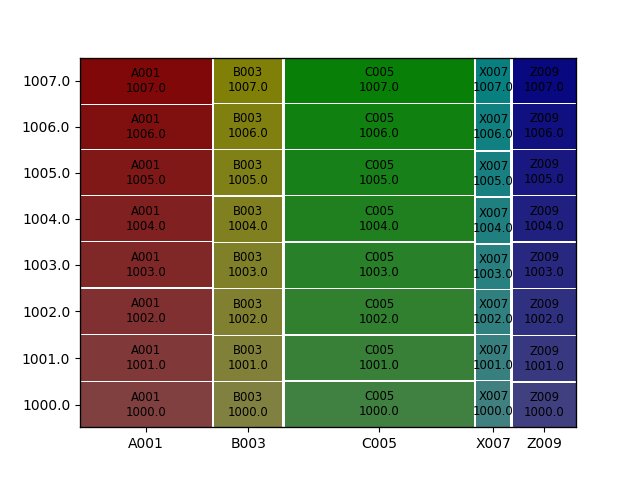
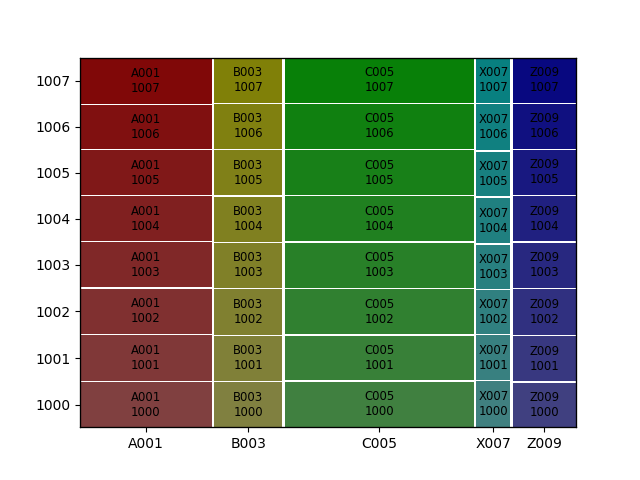
Change some variables to categorical/Int64, dropped unused Weekend variables and added plots for opportunity3.

diff --git a/prepare_data.py b/prepare_data.py
@@ -3,19 +3,32 @@ import os
 import pandas
 
 pandas.set_option('display.max_columns', 10)
-pandas.set_option('display.width', 300)
+pandas.set_option('display.width', 150)
 
 
 def read_data():
     """Read in dataset and return a dataframe with:
        - index: row_id
        - columns: original and derived features. Derived features include:
-         - Result_Type_Bin: binary feature (PASS or DEFECT)
-         - Week_Day: categorical (day of the week)
-         - Is_Weekend: "binary (1 for weekend and 0 for weekday)."""
+         - Result_Type_Bin: categorical feature (PASS or DEFECT)."""
 
     # data = pandas.read_csv(os.path.join('data', 'WIDS_Project_Generated_Data_10K.csv'), index_col=0)
-    data = pandas.read_csv(os.path.join('data', 'WIDS_Dataset_Full_Aug18_Jan19_Adjusted.csv.gz'), index_col=0)
+    data = pandas.read_csv(os.path.join('data', 'WIDS_Dataset_Full_Aug18_Jan19_Adjusted.csv.gz'),
+                           index_col=0,
+                           dtype={
+                               'Zone1Position': 'category',
+                               'Zone2Position': 'category',
+                               'Zone3Position': 'category',
+                               'SKU': 'category',
+                               'Block_Num': 'category',
+                               'Block_Position': 'category',
+                               'Result_Type': 'category',
+                               'Passed_QC_Count': 'Int64',
+                               'Defect_1_Count': 'Int64',
+                               'Defect_2_Count': 'Int64',
+                               'Defect_3_Count': 'Int64',
+                               'Defect_4_Count': 'Int64',
+                           })
     data.index.name = 'row_id'
 
     # Add binary Result_Type_Bin variable
@@ -24,13 +37,7 @@ def read_data():
         'Defect_1': 'DEFECT',
         'Defect_2': 'DEFECT',
         'Defect_3': 'DEFECT',
-        'Defect_4': 'DEFECT'})
-
-    # Add annotation by day of the week/weekend to explore whether there is an associations with defects appearance
-    data['Week_Day'] = pandas.Categorical(
-        pandas.to_datetime(data.Date).dt.day_name(),
-        ['Monday', 'Tuesday', 'Wednesday', 'Thursday', 'Friday', 'Saturday', 'Sunday'])
-    data['Is_Weekend'] = (pandas.to_datetime(data.Date).dt.dayofweek // 5 == 1).astype(float)
+        'Defect_4': 'DEFECT'}).astype('category')
 
     return data
 
@@ -50,14 +57,14 @@ def impute_data_zone1(data):
     data.loc[data.Zone1_Area.isin(['Bottom Right', 'Bottom Left']), 'Zone1_Row_Num'] = 2
 
     # Input values in 'Zone1Position' based on row and col position
-    data.loc[(data.Zone1_Row_Num == 1) & (data.Zone1_Col_Num == 1), 'Zone1Position'] = 1
-    data.loc[(data.Zone1_Row_Num == 1) & (data.Zone1_Col_Num == 2), 'Zone1Position'] = 2
-    data.loc[(data.Zone1_Row_Num == 1) & (data.Zone1_Col_Num == 3), 'Zone1Position'] = 3
-    data.loc[(data.Zone1_Row_Num == 1) & (data.Zone1_Col_Num == 4), 'Zone1Position'] = 4
-    data.loc[(data.Zone1_Row_Num == 2) & (data.Zone1_Col_Num == 1), 'Zone1Position'] = 5
-    data.loc[(data.Zone1_Row_Num == 2) & (data.Zone1_Col_Num == 2), 'Zone1Position'] = 6
-    data.loc[(data.Zone1_Row_Num == 2) & (data.Zone1_Col_Num == 3), 'Zone1Position'] = 7
-    data.loc[(data.Zone1_Row_Num == 2) & (data.Zone1_Col_Num == 4), 'Zone1Position'] = 8
+    data.loc[(data.Zone1_Row_Num == 1) & (data.Zone1_Col_Num == 1), 'Zone1Position'] = '1'
+    data.loc[(data.Zone1_Row_Num == 1) & (data.Zone1_Col_Num == 2), 'Zone1Position'] = '2'
+    data.loc[(data.Zone1_Row_Num == 1) & (data.Zone1_Col_Num == 3), 'Zone1Position'] = '3'
+    data.loc[(data.Zone1_Row_Num == 1) & (data.Zone1_Col_Num == 4), 'Zone1Position'] = '4'
+    data.loc[(data.Zone1_Row_Num == 2) & (data.Zone1_Col_Num == 1), 'Zone1Position'] = '5'
+    data.loc[(data.Zone1_Row_Num == 2) & (data.Zone1_Col_Num == 2), 'Zone1Position'] = '6'
+    data.loc[(data.Zone1_Row_Num == 2) & (data.Zone1_Col_Num == 3), 'Zone1Position'] = '7'
+    data.loc[(data.Zone1_Row_Num == 2) & (data.Zone1_Col_Num == 4), 'Zone1Position'] = '8'
 
     data.drop(columns=set(zone1_pos).difference(['Zone1Position']), inplace=True)
 
@@ -77,10 +84,10 @@ def impute_data_zone2(data):
         100 * data.Zone2Position.notna().mean()))
 
     # Input values in 'Zone2Position' based on row and col position
-    data.loc[(data.Zone2_Row_Num == 1) & (data.Zone2_Col_num == 1), 'Zone2Position'] = 1
-    data.loc[(data.Zone2_Row_Num == 1) & (data.Zone2_Col_num == 2), 'Zone2Position'] = 2
-    data.loc[(data.Zone2_Row_Num == 2) & (data.Zone2_Col_num == 1), 'Zone2Position'] = 3
-    data.loc[(data.Zone2_Row_Num == 2) & (data.Zone2_Col_num == 2), 'Zone2Position'] = 4
+    data.loc[(data.Zone2_Row_Num == 1) & (data.Zone2_Col_num == 1), 'Zone2Position'] = '1'
+    data.loc[(data.Zone2_Row_Num == 1) & (data.Zone2_Col_num == 2), 'Zone2Position'] = '2'
+    data.loc[(data.Zone2_Row_Num == 2) & (data.Zone2_Col_num == 1), 'Zone2Position'] = '3'
+    data.loc[(data.Zone2_Row_Num == 2) & (data.Zone2_Col_num == 2), 'Zone2Position'] = '4'
 
     data.drop(columns=set(zone2_pos).difference(['Zone2Position']), inplace=True)
 
@@ -99,18 +106,18 @@ def impute_data_zone3(data):
         100 * data.Zone3Position.notna().mean()))
 
     # Set Position based on Zone3_Area and Row/Column where we can.
-    data.loc[(data.Zone3_Area == 'Top Left') & (data.Zone3_Col_Num == 2), 'Zone3Position'] = 2
-    data.loc[(data.Zone3_Area == 'Top Left') & (data.Zone3_Row_Num == 2), 'Zone3Position'] = 4
-    data.loc[(data.Zone3_Area == 'Bottom Right') & (data.Zone3_Row_Num == 1), 'Zone3Position'] = 3
-    data.loc[(data.Zone3_Area == 'Bottom Right') & (data.Zone3_Col_Num == 2), 'Zone3Position'] = 5
+    data.loc[(data.Zone3_Area == 'Top Left') & (data.Zone3_Col_Num == 2), 'Zone3Position'] = '2'
+    data.loc[(data.Zone3_Area == 'Top Left') & (data.Zone3_Row_Num == 2), 'Zone3Position'] = '4'
+    data.loc[(data.Zone3_Area == 'Bottom Right') & (data.Zone3_Row_Num == 1), 'Zone3Position'] = '3'
+    data.loc[(data.Zone3_Area == 'Bottom Right') & (data.Zone3_Col_Num == 2), 'Zone3Position'] = '5'
 
     # Input values in 'Zone2Position' based on row and col position
-    data.loc[(data.Zone3_Row_Num == 1) & (data.Zone3_Col_Num == 1), 'Zone3Position'] = 1
-    data.loc[(data.Zone3_Row_Num == 1) & (data.Zone3_Col_Num == 2), 'Zone3Position'] = 2
-    data.loc[(data.Zone3_Row_Num == 1) & (data.Zone3_Col_Num == 3), 'Zone3Position'] = 3
-    data.loc[(data.Zone3_Row_Num == 2) & (data.Zone3_Col_Num == 1), 'Zone3Position'] = 4
-    data.loc[(data.Zone3_Row_Num == 2) & (data.Zone3_Col_Num == 2), 'Zone3Position'] = 5
-    data.loc[(data.Zone3_Row_Num == 2) & (data.Zone3_Col_Num == 3), 'Zone3Position'] = 6
+    data.loc[(data.Zone3_Row_Num == 1) & (data.Zone3_Col_Num == 1), 'Zone3Position'] = '1'
+    data.loc[(data.Zone3_Row_Num == 1) & (data.Zone3_Col_Num == 2), 'Zone3Position'] = '2'
+    data.loc[(data.Zone3_Row_Num == 1) & (data.Zone3_Col_Num == 3), 'Zone3Position'] = '3'
+    data.loc[(data.Zone3_Row_Num == 2) & (data.Zone3_Col_Num == 1), 'Zone3Position'] = '4'
+    data.loc[(data.Zone3_Row_Num == 2) & (data.Zone3_Col_Num == 2), 'Zone3Position'] = '5'
+    data.loc[(data.Zone3_Row_Num == 2) & (data.Zone3_Col_Num == 3), 'Zone3Position'] = '6'
 
     data.drop(columns=set(zone3_pos).difference(['Zone3Position']), inplace=True)
 

diff --git a/run_exploratory_analyses.py b/run_exploratory_analyses.py
@@ -11,14 +11,15 @@ import graphviz
 import prepare_data
 
 pandas.set_option('display.max_columns', 10)
-pandas.set_option('display.width', 300)
+pandas.set_option('display.width', 150)
 
 
 def plot_var_by_SKU_and_result_type(data, cols):
-    data = data.copy()
-    data.set_index(['SKU', 'Result_Type'], inplace=True)
-    data = data[cols].stack().to_frame('value')
-    data.index.names = ['SKU', 'Result_Type', 'vars']
+    data2 = data.copy()
+    data2.SKU = data2.SKU.astype('object')
+    data2.set_index(['SKU', 'Result_Type'], inplace=True)
+    data2 = data2[cols].stack().to_frame('value')
+    data2.index.names = ['SKU', 'Result_Type', 'vars']
 
     seaborn.catplot(x='SKU', y='value',
                     kind='violin',
@@ -26,11 +27,12 @@ def plot_var_by_SKU_and_result_type(data, cols):
                     row='vars',
                     dodge=True,
                     palette='Set1',
-                    data=data.reset_index())
+                    data=data2.reset_index())
 
 
 def plot_var_by_date_and_SKU(data, cols):
     data = data.copy()
+    data.SKU = data.SKU.astype('object')
     data.set_index(['Date', 'SKU', 'Result_Type'], inplace=True)
     data = data[cols].stack().to_frame('value')
     data.index.names = ['Date', 'SKU', 'Result_Type', 'vars']
@@ -117,16 +119,16 @@ def plot_opportunities(data, costs):
 def analyze_opportunity1(data):
     # Analyze root cause of opportunity 1 defects (Defect_2 in NonA001 SKUs)
     data2 = data[(data.SKU != 'A001') & data.Result_Type.isin(['PASS', 'Defect_2'])].dropna()
-    x = data2.drop(columns=['Result_Type_Bin', 'Result_Type', 'Date', 'SKU', 'Week_Day'])
+    x = pandas.get_dummies(data2.drop(columns=['Result_Type_Bin', 'Result_Type', 'Date', 'SKU']))
     tree = sklearn.tree.DecisionTreeClassifier(min_samples_split=1000, min_samples_leaf=100,
-                                               min_impurity_split=0.1).fit(x, data2.Result_Type)
+                                               min_impurity_split=0.1).fit(x, data2.Result_Type.astype('object'))
     graph = sklearn.tree.export_graphviz(tree, feature_names=x.columns, class_names=tree.classes_, filled=True,
                                          rounded=True, proportion=True)
     graphviz.Source(graph).render(os.path.join('figures', 'opportunity1_tree'), format='png')
 
 
 def plot_opportunity1_partial_dependency_plot(data):
-    data2 = data[(data.Zone3Position == 6) & (data.SKU != 'A001') & data.Result_Type.isin(['PASS', 'Defect_2'])].copy()
+    data2 = data[(data.Zone3Position == '6') & (data.SKU != 'A001') & data.Result_Type.isin(['PASS', 'Defect_2'])].copy()
 
     data2['HasDefect'] = data2.Result_Type != 'PASS'
 
@@ -141,6 +143,31 @@ def plot_opportunity1_partial_dependency_plot(data):
     matplotlib.pyplot.savefig(os.path.join('figures', 'opportunity1_partial_dependency.png'))
 
 
+def analyze_opportunity3(data):
+    # Analyze root cause of opportunity 3 defects (Defect_3 in NonA001 SKUs)
+    data2 = data[(data
+                  .SKU != 'A001') & data.Result_Type.isin(['PASS', 'Defect_3'])].dropna()
+    x = pandas.get_dummies(data2.drop(columns=['Result_Type_Bin', 'Result_Type', 'Date', 'SKU']))
+    tree = sklearn.tree.DecisionTreeClassifier(min_samples_split=10, min_samples_leaf=10,
+                                               min_impurity_split=0.065).fit(x, data2.Result_Type.astype('object'))
+    graph = sklearn.tree.export_graphviz(tree, feature_names=x.columns, class_names=tree.classes_, filled=True,
+                                         rounded=True, proportion=True)
+    graphviz.Source(graph).render(os.path.join('figures', 'opportunity3_tree'), format='png')
+
+
+def plot_opportunity3_partial_dependency_plot(data):
+    data2 = data[(data.Zone2Position == '1') & (data.SKU != 'A001') & data.Result_Type.isin(['PASS', 'Defect_3'])].copy()
+
+    data2['HasDefect'] = data2.Result_Type != 'PASS'
+    data2.dropna(subset=['HasDefect', 'Block_Position', 'Zone1_In_Zone3_Out_Dur'], inplace=True)
+
+
+    matplotlib.pyplot.figure()
+    ax=seaborn.lineplot('Zone1_In_Zone3_Out_Dur', 'HasDefect', hue=data2.Block_Position.astype('int64'), data=data2, palette='Set1')
+    ax.set_ylabel('Defect rate')
+    matplotlib.pyplot.tight_layout()
+    matplotlib.pyplot.savefig(os.path.join('figures', 'opportunity3_partial_dependency.png'))
+
 if __name__ == '__main__':
     data = prepare_data.get_prepared_data()
     costs = prepare_data.get_costs()
@@ -152,8 +179,6 @@ if __name__ == '__main__':
     # Association between SKU and categorical variables
     plot_cat_data_association(data, ['SKU', 'Result_Type_Bin'], 'SKU_vs_Result_Type_Bin')
     plot_cat_data_association(data, ['SKU', 'Result_Type'], 'SKU_vs_Result_Type')
-    plot_cat_data_association(data, ['SKU', 'Week_Day'], 'SKU_vs_Week_Day')
-    plot_cat_data_association(data, ['SKU', 'Is_Weekend'], 'SKU_vs_Is_Weekend')
     plot_cat_data_association(data, ['SKU', 'Block_Num'], 'SKU_vs_Block_Num')
     plot_cat_data_association(data, ['SKU', 'Block_Position'], 'SKU_vs_Block_Position')
     plot_cost_defect_association(data, costs)
@@ -162,6 +187,11 @@ if __name__ == '__main__':
     analyze_opportunity1(data)
     plot_zone_position_defect(data)
     plot_opportunity1_partial_dependency_plot(data)
+
+    analyze_opportunity3(data)
+    plot_opportunity3_partial_dependency_plot(data)
+
+
 
 
     # Correlation among numerical variables
@@ -204,4 +234,4 @@ if __name__ == '__main__':
     plot_correlation_among_features(data, ['Result_Type_Bin', 'Zone1_Dur', 'Zone2_Dur', 'Zone3_Dur', 'Zone1_Out_Zone2_In_Dur',
                                            'Zone1_Out_Zone3_In_Dur', 'Zone2_Out_Zone3_In_Dur',
                                            'Zone1_In_Zone3_Out_Dur', 'Zone1_In_Zone2_Out_Dur', 'Zone2_In_Zone3_Out_Dur', 'Total_Dur',
-                                           'Total_Zone123_Dur', 'AVG_Zone123_Dur'])
+                                           'Total_Zone123_Dur'])

diff --git a/summary.md b/summary.md
@@ -39,6 +39,7 @@ Defect 2 for non-A001 SKUs appear over-represented in products produced:
 - In Zone3Position 6
 - with high Zone1TempRange (>8.96)
 - (depending on Zone1 temperature and humidity)
+- Why the strange interaction between position in zone3 and temperatures in zone1??
 
 # Partial dependency plot for Zone 1 min/max temperatures for non-A001 SKUs in Zone 3 position 6
 
@@ -46,6 +47,24 @@ Defect 2 for non-A001 SKUs appear over-represented in products produced:
 
 Practically all of Defect 2 for non-A001 SKUs can be explained by min/max temperatures in Zone1
 for items produced in zone 3 position 6.
+
+# Opportunity 3, Defect_3 across non-A001 SKUs
+![opportunity3_tree.png](figures/opportunity3_tree.png)
+
+Defect 3 for non-A001 SKUs appear over-represented in products produced:
+- In Zone2Position 1
+- with a narrow band of Zone1_In_Zone3_Out_Dur between 99.505 and 99.975 seconds
+- In Block_Position 1 or 4
+- How is Block Position related to ZoneXPosition??
+- From the data dictionary, it appears that
+  Zone1_In_Zone3_Out_Dur == Total_Dur == Total_Zone123_Dur + Zone1_Out_Zone2_In_Dur + Zone2_Out_Zone3_In_Dur, but it's not??
+
+# Partial dependency plot for Zone1_In_Zone3_Out_Dur for non-A001 SKUs in Zone 2 position 1
+
+![opportunity3_partial_dependency.png](figures/opportunity3_partial_dependency.png)
+
+Practically all of Defect 3 for non-A001 SKUs can be explained by Zone1_In_Zone3_Out_Dur, Block_Position and Zone 2 position1.
+
 
 # Breakdown of defects occurrence by zone 1-3 positions
 
